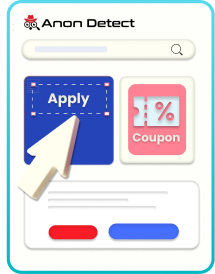
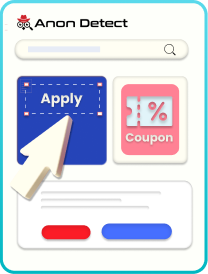
card placement

diff --git a/src/components/ELearning/Cards.tsx b/src/components/ELearning/Cards.tsx
@@ -2,39 +2,57 @@ import React from "react";
 
 export default function Cards() {
   return (
-    <div className="xl:max-w-layout md:max-w-5xl mx-auto mt-5 mb-10 px-2 ">
+    <div className="xl:max-w-layout md:max-w-5xl mx-auto mt-5 mb-10 px-4 ">
       <div className="flex flex-col lg:flex-row justify-between items-center">
-        <div className="flex flex-col justify-center gap-3 w-[300px] h-[500px] pt-4">
-          <img src="/elearning/card1.png" alt="card" />
-          <p className="text-2xl font-semibold leading-9 -mt-3">
-            Enroll any course apply Coupon discount code.
-          </p>
-          <div className="">
-            <button className="bg-primary px-3 py-2 text-white rounded-lg">
-              Apply Coupon
-            </button>
+        <div className="flex flex-col justify-between gap-3 w-[300px] h-[500px]">
+          <img
+            src="/elearning/card1.png"
+            alt="card"
+            className="min-h-[300px] max-h-[350px] "
+          />
+          <div className="flex flex-col gap-4">
+            <p className="text-2xl font-semibold leading-9 ">
+              Enroll any course apply Coupon discount code.
+            </p>
+            <div className="">
+              <button className="bg-primary px-3 py-2 text-white rounded-lg">
+                Apply Coupon
+              </button>
+            </div>
           </div>
         </div>
-        <div className="flex flex-col justify-center gap-3 w-[300px] h-[500px]">
-          <img src="/elearning/card2.png" alt="card" className="" />
-          <p className="text-2xl font-semibold leading-9 mt-2">
-            Downloading premium courses for free.
-          </p>
-          <div className="">
-            <button className="bg-secondary px-3 py-2 text-white rounded-lg">
-              Download Free
-            </button>
+        <div className="flex flex-col justify-between gap-3 w-[300px] h-[500px]">
+          <img
+            src="/elearning/card2.png"
+            alt="card"
+            className="min-h-[300px] max-h-[350px] "
+          />
+          <div className="flex flex-col gap-4">
+            <p className="text-2xl font-semibold leading-9 ">
+              Downloading premium courses for free.
+            </p>
+            <div className="">
+              <button className="bg-secondary px-3 py-2 text-white rounded-lg">
+                Download Free
+              </button>
+            </div>
           </div>
         </div>
-        <div className="flex flex-col justify-center gap-3 w-[300px] h-[500px]">
-          <img src="/elearning/card3.png" alt="card" className="-mt-12" />
-          <p className="text-2xl font-semibold leading-9 mt-3">
-            Buy Recomanded or sponsored courses.
-          </p>
-          <div className="">
-            <button className="bg-primary px-3 py-2 text-white rounded-lg">
-              Buy Course
-            </button>
+        <div className="flex flex-col justify-between gap-3 w-[300px] h-[500px]">
+          <img
+            src="/elearning/card3.png"
+            alt="card"
+            className="min-h-[300px] max-h-[350px] "
+          />
+          <div className="flex flex-col gap-4">
+            <p className="text-2xl font-semibold leading-9">
+              Buy Recomanded or sponsored courses.
+            </p>
+            <div className="">
+              <button className="bg-primary px-3 py-2 text-white rounded-lg">
+                Buy Course
+              </button>
+            </div>
           </div>
         </div>
       </div>
